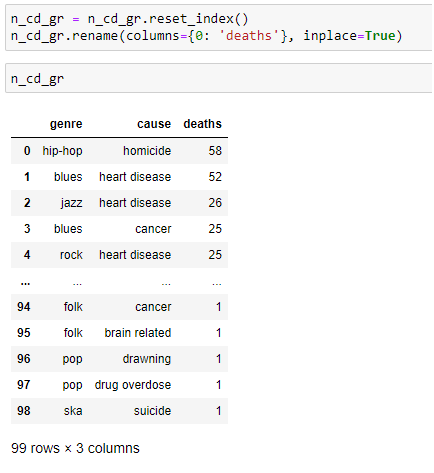
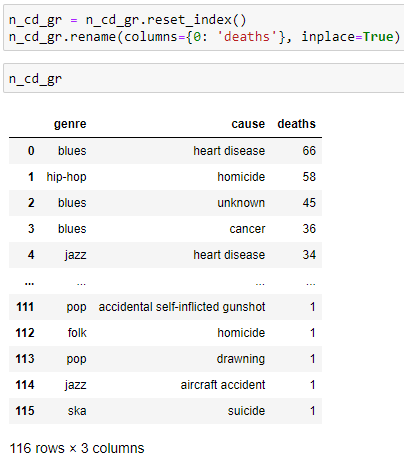
update music and death cases

diff --git a/app/templates/music_and_death.html b/app/templates/music_and_death.html
@@ -7,7 +7,7 @@
       <h1 class="display-2">Music & Death</h1>
       <h3 class="mt-4">Repository Github</h3>
       <p><a href="https://github.com/Kalincillo/data_science_music_and_death" class="text-info" target="_blank">
-        Restaurant finder</a></p>
+        Music & Death</a></p>
       <section>
         <h3 class="mt-2">Objective</h3>
         <p class="mt-0">The main objective of this research is to investigate if there is any relationship between being
@@ -122,11 +122,11 @@
       </section>
       <section class="text-white mt-5">
         <h1 class="text-center">Questions</h1>
-        <p>Today I have gathered information from more than 500 musicians which I will continue to update, meanwhile I
+        <p>Today I have gathered information from more than 700 musicians which I will continue to update, meanwhile I
           will proceed to answer key questions and we will be able to observe how they change as more people are
           added.
         </p>
-        <h3>Total deaths form 50's to 2020's</h3>
+        <h3>Total deaths from 50's to 2020's</h3>
         <p class="mt-0">We will create a new dataframe using the pandas function "pivot_table" and divide them by
           musical genre to
           see who has the most deaths so far.</p>
@@ -136,7 +136,7 @@
         <img src="{{ url_for('static', filename='/images/projects/software/music_death/total_deaths_2.png') }}"
              class="img-frame project-img mt-2">
         <h3 class="mt-4">Most common death ages</h3>
-        <p>I create a series using the column death ages and then the method "value_counts" and only use the 10 most
+        <p class="mt-0">I create a series using the column death ages and then the method "value_counts" and only use the 10 most
           common values using the method "nlargest"</p>
         <img src="{{ url_for('static', filename='/images/projects/software/music_death/death_ages.jpg') }}"
              class="img-frame project-img mt-2">
@@ -146,7 +146,7 @@
         <img src="{{ url_for('static', filename='/images/projects/software/music_death/death_ages_pie_chart.png') }}"
              class="img-frame project-img mt-2">
         <p>So far we can confirm that the theory of the 27 years is real</p>
-        <h3>Order music genre deaths</h3>
+        <h3>Most common Music Genre deaths</h3>
         <img src="{{ url_for('static', filename='/images/projects/software/music_death/genre_deaths.png') }}"
              class="img-frame project-img mt-2">
         <p>Plot</p>
@@ -155,7 +155,7 @@
         <img src="{{ url_for('static', filename='/images/projects/software/music_death/genre_deaths_3.png') }}"
              class="img-frame project-img mt-4">
         <h3 class="mt-4">Most common countries of origin of dead musicians</h3>
-        <p>We use "value_counts" and "nlargest" again but this time with the Country column.</p>
+        <p class="mt-0">We use "value_counts" and "nlargest" again but this time with the Country column.</p>
         <img src="{{ url_for('static', filename='/images/projects/software/music_death/country_origin.png') }}"
              class="img-frame project-img mt-2">
         <p>Now we plot the data with an horizontal bar</p>

diff --git a/app/templates/software.html b/app/templates/software.html
@@ -42,20 +42,5 @@
         </div>
       </div>
     </div>
-    <div class="col">
-      <div class="card h-100 w-100">
-        <img src="{{ url_for('static', filename='images/projects/software/arnold.jpg') }}" class="card-img-top"
-             alt="...">
-        <div class="card-body" id="project-title">
-          <a href="{{ url_for('.strength') }}" class="card-title text-black">
-            <h5 class="card-title text-black">KIVY Strength training APP
-              <strong class="text-warning">(in development)</strong>
-            </h5>
-          </a>
-          <p class="card-text text-white mt-0">App created to create a program depending on your level and
-            strength</p>
-        </div>
-      </div>
-    </div>
   </div>
 {% endblock %}
